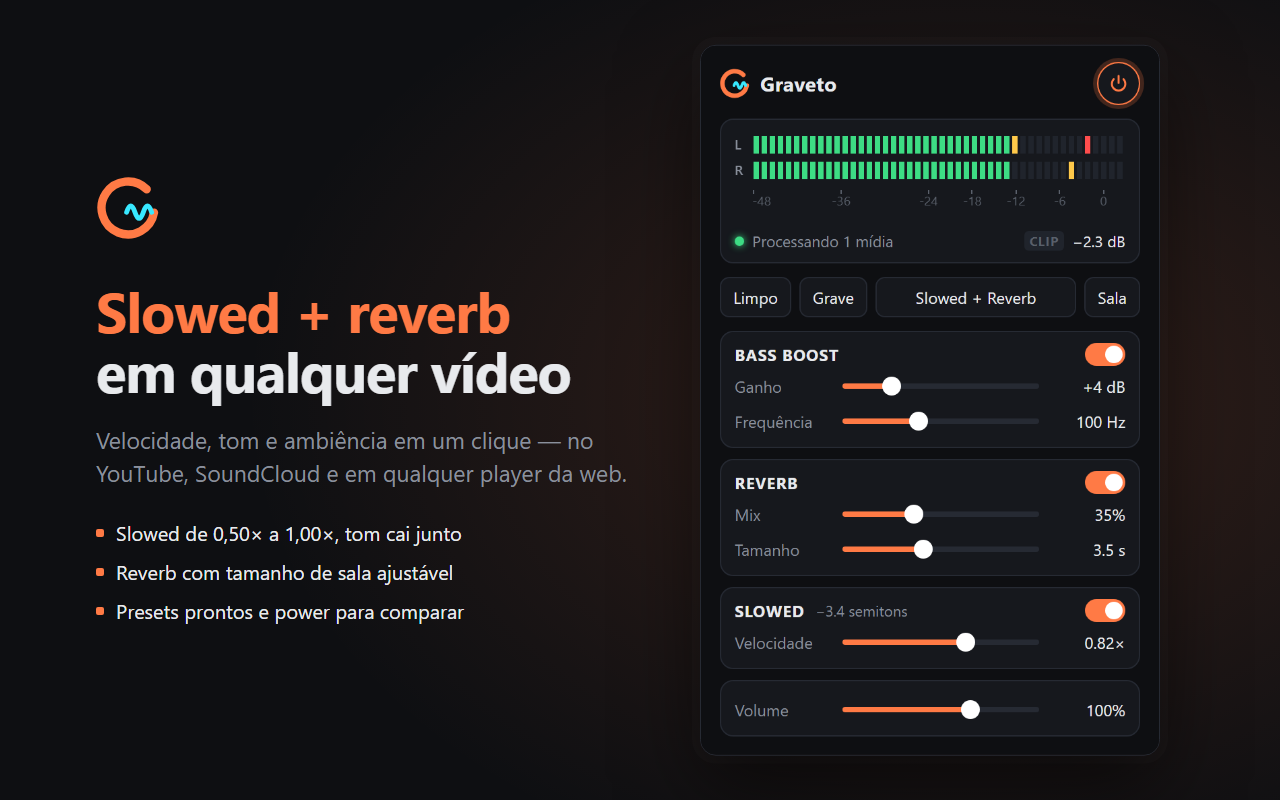
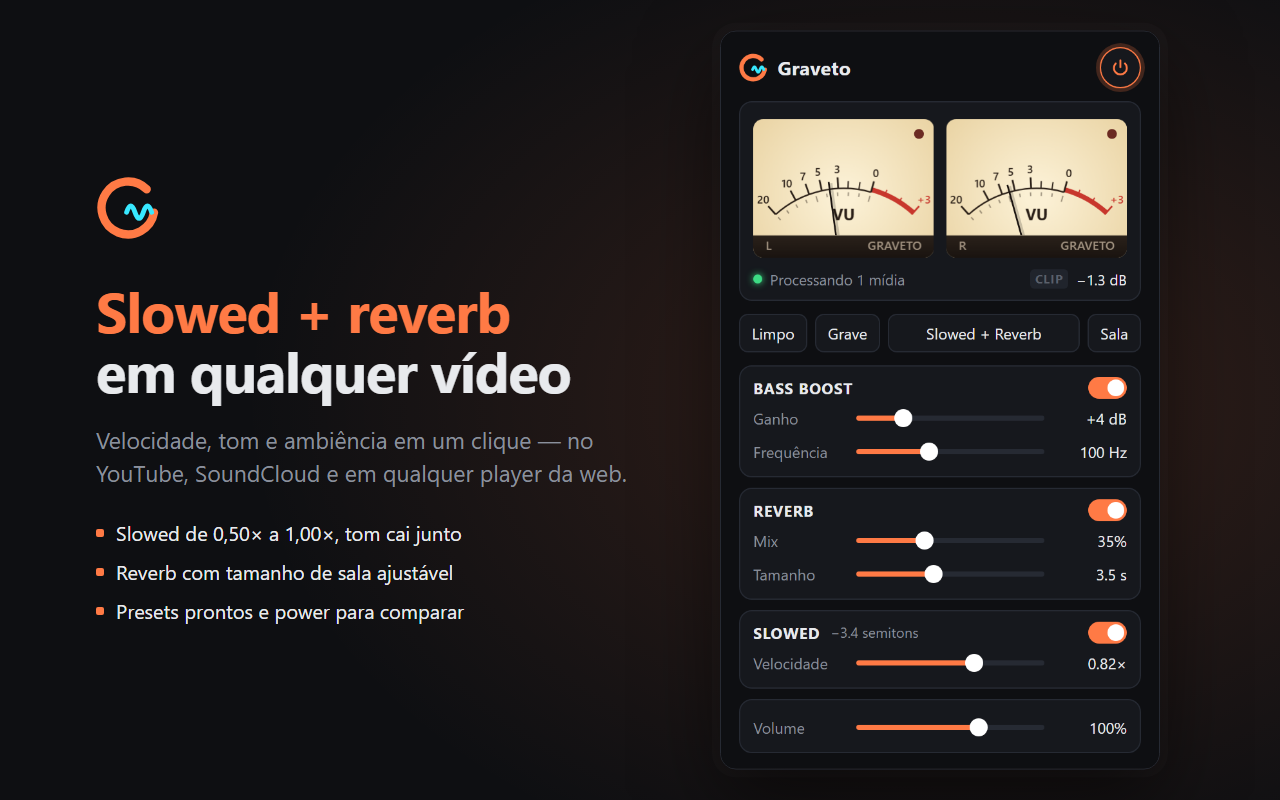
Popup com VU meter analógico
Troca as barras de LED por dois mostradores analógicos (agulha com
balística de VU, faixa vermelha e LED de pico), trazidos da versão em
workspace\Graveto. O restante do popup e o motor de áudio não mudam.
Capturas do README e artes da loja refeitas.

diff --git a/popup/popup.js b/popup/popup.js
@@ -170,34 +170,159 @@ function showStatus([text, kind]) {
   $('#dot').className = kind;
 }
 
-// ---------- VU meter ----------
+// ---------- VU meter (analógico) ----------
 
 const MIN_DB = -48;
-const MAX_DB = 3;
-const SCALE = [-48, -36, -24, -18, -12, -6, 0];
 const toDb = (v) => (v > 1e-6 ? 20 * Math.log10(v) : -Infinity);
+
+// Dois mostradores clássicos: agulha com balística de VU (~300 ms), calibrada para
+// −12 dBFS RMS = 0 VU, faixa vermelha acima de 0 VU e LED de pico.
+const VU_REF_DBFS = -12;
+const VU_MIN = -20;
+const VU_MAX = 3;
+const NEEDLE_TAU = 0.065;
+const PEAK_LED = 0.891; // −1 dBFS
+const PEAK_HOLD_MS = 450;
+
+// Geometria em unidades de desenho; o canvas é escalado para a largura real do painel.
+const W = 302;
+const H = 118;
+const FACE_W = 146;
+const FACE_H = 112;
+const FACE_Y = 3;
+const FACES = [0, W - FACE_W];
+const SWEEP = (42 * Math.PI) / 180;
+const PIVOT_DROP = 26; // pivô abaixo da face, como nos medidores analógicos
+const RADIUS = 82;
 
 const canvas = $('#vu');
 const g = canvas.getContext('2d');
-const css = getComputedStyle(document.documentElement);
-const C = Object.fromEntries(
-  ['ok', 'warn', 'hot', 'seg-off', 'muted', 'dim'].map((k) => [k, css.getPropertyValue(`--${k}`).trim()]),
-);
+let res = 1; // pixels de canvas por unidade de desenho
+let faceLayers = [];
 
 const vu = {
-  rms: [0, 0],                    // amplitude com balística (ataque rápido, queda lenta)
-  hold: [-Infinity, -Infinity],   // pico segurado, dB
+  needle: [-0.04, -0.04],
+  peakUntil: [0, 0],
+  hold: [-Infinity, -Infinity], // pico segurado em dB, para o readout
   holdAt: [0, 0],
   clipAt: -1e9,
 };
 
+function vuPosition(v) {
+  const lo = Math.pow(10, VU_MIN / 20);
+  const hi = Math.pow(10, VU_MAX / 20);
+  return (Math.pow(10, v / 20) - lo) / (hi - lo);
+}
+
+const angleFor = (pos) => -SWEEP + pos * 2 * SWEEP;
+const polar = (cx, cy, angle, r) => [cx + Math.sin(angle) * r, cy - Math.cos(angle) * r];
+
+// A face é desenhada uma vez numa camada separada; a cada quadro só a agulha muda.
+function drawFace(label) {
+  const face = document.createElement('canvas');
+  face.width = Math.round(FACE_W * res);
+  face.height = Math.round(FACE_H * res);
+  const c = face.getContext('2d');
+  c.scale(res, res);
+
+  const cx = FACE_W / 2;
+  const cy = FACE_H + PIVOT_DROP;
+
+  c.beginPath();
+  c.roundRect(0, 0, FACE_W, FACE_H, 8);
+  const bg = c.createRadialGradient(cx, FACE_H * 0.55, 10, cx, FACE_H * 0.55, FACE_W * 0.75);
+  bg.addColorStop(0, '#fbf0d4');
+  bg.addColorStop(1, '#e7cf9c');
+  c.fillStyle = bg;
+  c.fill();
+  c.save();
+  c.clip();
+
+  // Arco da escala: preto até 0 VU, faixa vermelha depois.
+  const aZero = angleFor(vuPosition(0));
+  c.lineWidth = 1.2;
+  c.strokeStyle = '#2a1f17';
+  c.beginPath();
+  c.arc(cx, cy, RADIUS, angleFor(0) - Math.PI / 2, aZero - Math.PI / 2);
+  c.stroke();
+  c.lineWidth = 4;
+  c.strokeStyle = '#c8372d';
+  c.beginPath();
+  c.arc(cx, cy, RADIUS + 2, aZero - Math.PI / 2, angleFor(1) - Math.PI / 2);
+  c.stroke();
+
+  const labeled = new Set([-20, -10, -7, -5, -3, 0, 3]);
+  c.font = '600 9px "Segoe UI", system-ui, sans-serif';
+  c.textAlign = 'center';
+  c.textBaseline = 'middle';
+  for (const v of [-20, -10, -7, -5, -3, -2, -1, 0, 1, 2, 3]) {
+    const a = angleFor(vuPosition(v));
+    const major = labeled.has(v);
+    const [x1, y1] = polar(cx, cy, a, RADIUS);
+    const [x2, y2] = polar(cx, cy, a, RADIUS + (major ? 9 : 6));
+    c.strokeStyle = v > 0 ? '#c8372d' : '#2a1f17';
+    c.lineWidth = major ? 1.4 : 1;
+    c.beginPath();
+    c.moveTo(x1, y1);
+    c.lineTo(x2, y2);
+    c.stroke();
+    if (major) {
+      const [tx, ty] = polar(cx, cy, a, RADIUS + 15);
+      c.fillStyle = c.strokeStyle;
+      c.fillText(v > 0 ? `+${v}` : `${Math.abs(v)}`, tx, ty);
+    }
+  }
+
+  // Marcações de porcentagem por dentro do arco, como num VU clássico.
+  c.strokeStyle = 'rgba(42, 31, 23, 0.45)';
+  c.lineWidth = 1;
+  for (let i = 1; i <= 10; i++) {
+    const a = angleFor(vuPosition(20 * Math.log10(i / 10)));
+    const [x1, y1] = polar(cx, cy, a, RADIUS - 3);
+    const [x2, y2] = polar(cx, cy, a, RADIUS - (i % 5 === 0 ? 8 : 6));
+    c.beginPath();
+    c.moveTo(x1, y1);
+    c.lineTo(x2, y2);
+    c.stroke();
+  }
+
+  c.fillStyle = '#2a1f17';
+  c.font = '700 13px "Segoe UI", system-ui, sans-serif';
+  c.fillText('VU', cx, FACE_H - 34);
+
+  // Base escura que esconde o pivô.
+  const base = c.createLinearGradient(0, FACE_H - 18, 0, FACE_H);
+  base.addColorStop(0, '#2b221b');
+  base.addColorStop(1, '#1a1410');
+  c.fillStyle = base;
+  c.fillRect(0, FACE_H - 18, FACE_W, 18);
+  c.fillStyle = '#a39482';
+  c.font = '600 10px "Segoe UI", system-ui, sans-serif';
+  c.textAlign = 'left';
+  c.fillText(label, 10, FACE_H - 9);
+  c.textAlign = 'right';
+  c.fillText('GRAVETO', FACE_W - 10, FACE_H - 9);
+  c.restore();
+
+  return face;
+}
+
+function sizeCanvas() {
+  res = (canvas.clientWidth / W) * (devicePixelRatio || 1);
+  canvas.width = Math.round(W * res);
+  canvas.height = Math.round(H * res);
+  faceLayers = [drawFace('L'), drawFace('R')];
+}
+
 function stepMeter(dt, now, levels) {
+  const k = 1 - Math.exp(-dt / NEEDLE_TAU);
   for (let c = 0; c < 2; c++) {
-    const target = levels ? levels[c] : 0;
-    const tau = target > vu.rms[c] ? 0.05 : 0.3;
-    vu.rms[c] += (target - vu.rms[c]) * (1 - Math.exp(-dt / tau));
+    const rms = s.power && levels ? levels[c] : 0;
+    const target = Math.min(1.06, Math.max(-0.04, vuPosition(toDb(rms) - VU_REF_DBFS)));
+    vu.needle[c] += (target - vu.needle[c]) * k;
 
     const peak = levels ? levels[2 + c] : 0;
+    if (peak >= PEAK_LED) vu.peakUntil[c] = now + PEAK_HOLD_MS;
     const pdb = toDb(peak);
     if (pdb >= vu.hold[c]) {
       vu.hold[c] = pdb;
@@ -209,61 +334,56 @@ function stepMeter(dt, now, levels) {
   }
 }
 
-function sizeCanvas() {
-  const dpr = devicePixelRatio || 1;
-  canvas.width = Math.round(canvas.clientWidth * dpr);
-  canvas.height = Math.round(canvas.clientHeight * dpr);
-  g.setTransform(dpr, 0, 0, dpr, 0, 0);
-}
-
-function segColor(db) {
-  if (db >= -3) return C.hot;
-  if (db >= -12) return C.warn;
-  return C.ok;
-}
-
-function drawMeter() {
-  const W = canvas.clientWidth;
-  const H = canvas.clientHeight;
+function drawMeter(now) {
+  g.setTransform(res, 0, 0, res, 0, 0);
   g.clearRect(0, 0, W, H);
 
-  const x0 = 14;
-  const barW = W - x0;
-  const barH = 13;
-  const segW = 4;
-  const gap = 2;
-  const count = Math.floor((barW + gap) / (segW + gap));
-  const xOf = (db) => x0 + ((Math.max(MIN_DB, Math.min(MAX_DB, db)) - MIN_DB) / (MAX_DB - MIN_DB)) * barW;
-  const dbOfSeg = (i) => MIN_DB + ((i + 0.5) / count) * (MAX_DB - MIN_DB);
-
-  g.font = '600 10px system-ui, sans-serif';
-  g.textBaseline = 'middle';
-
   for (let c = 0; c < 2; c++) {
-    const y = 2 + c * (barH + 6);
-    g.fillStyle = C.muted;
-    g.textAlign = 'left';
-    g.fillText(c ? 'R' : 'L', 0, y + barH / 2 + 0.5);
+    const x = FACES[c];
+    const cx = x + FACE_W / 2;
+    const cy = FACE_Y + FACE_H + PIVOT_DROP;
+    g.drawImage(faceLayers[c], x, FACE_Y, FACE_W, FACE_H);
 
-    const level = toDb(vu.rms[c]);
-    const holdSeg = Math.floor(((vu.hold[c] - MIN_DB) / (MAX_DB - MIN_DB)) * count);
-    for (let i = 0; i < count; i++) {
-      const db = dbOfSeg(i);
-      const lit = db <= level;
-      g.fillStyle = lit || i === holdSeg ? segColor(db) : C['seg-off'];
-      g.fillRect(x0 + i * (segW + gap), y, segW, barH);
+    // Agulha (com sombra leve), recortada acima da base.
+    g.save();
+    g.beginPath();
+    g.roundRect(x, FACE_Y, FACE_W, FACE_H - 18, [8, 8, 0, 0]);
+    g.clip();
+    const [tx, ty] = polar(cx, cy, angleFor(vu.needle[c]), RADIUS + 6);
+    g.strokeStyle = 'rgba(0, 0, 0, 0.18)';
+    g.lineWidth = 2;
+    g.beginPath();
+    g.moveTo(cx + 2, cy);
+    g.lineTo(tx + 2, ty + 1);
+    g.stroke();
+    g.strokeStyle = '#1b1410';
+    g.lineWidth = 1.4;
+    g.beginPath();
+    g.moveTo(cx, cy);
+    g.lineTo(tx, ty);
+    g.stroke();
+    g.restore();
+
+    // LED de pico.
+    const lit = now < vu.peakUntil[c];
+    g.beginPath();
+    g.arc(x + FACE_W - 12, FACE_Y + 12, 4, 0, Math.PI * 2);
+    g.fillStyle = lit ? '#ff3b2f' : '#6b2a22';
+    g.fill();
+    if (lit) {
+      g.save();
+      g.shadowColor = '#ff3b2f';
+      g.shadowBlur = 10;
+      g.fill();
+      g.restore();
     }
-  }
 
-  // escala em dB
-  const sy = 2 + 2 * (barH + 6) + 6;
-  g.font = '9.5px system-ui, sans-serif';
-  g.fillStyle = C.dim;
-  g.textAlign = 'center';
-  for (const db of SCALE) {
-    const x = xOf(db);
-    g.fillRect(Math.round(x) - 0.5, sy - 4, 1, 3);
-    g.fillText(db === 0 ? '0' : String(db), Math.min(W - 6, Math.max(x0 + 6, x)), sy + 5);
+    if (!s.power) {
+      g.beginPath();
+      g.roundRect(x, FACE_Y, FACE_W, FACE_H, 8);
+      g.fillStyle = 'rgba(13, 10, 8, 0.55)';
+      g.fill();
+    }
   }
 }
 
@@ -281,7 +401,7 @@ function frame(now) {
   last = now;
   const a = aggregate(now);
   stepMeter(dt, now, a.levels);
-  drawMeter();
+  drawMeter(now);
   showReadout(now);
   showStatus(statusOf(a, now));
   requestAnimationFrame(frame);

diff --git a/store/assets.html b/store/assets.html
@@ -36,7 +36,7 @@
   .shot ul { list-style: none; padding: 0; display: grid; gap: 12px; font-size: 20px; }
   .shot li { display: flex; align-items: center; gap: 12px; }
   .shot li::before { content: ""; width: 8px; height: 8px; border-radius: 2px; background: var(--accent); }
-  .shot .popup { position: absolute; right: 120px; top: 50%; width: 460px; transform: translateY(-50%); border-radius: 16px; border: 1px solid var(--line); box-shadow: 0 30px 80px rgba(0, 0, 0, 0.55), 0 0 0 8px rgba(255, 255, 255, 0.02); }
+  .shot .popup { position: absolute; right: 120px; top: 50%; width: 440px; transform: translateY(-50%); border-radius: 16px; border: 1px solid var(--line); box-shadow: 0 30px 80px rgba(0, 0, 0, 0.55), 0 0 0 8px rgba(255, 255, 255, 0.02); }
 
   /* promo tile 440×280 e marquee 1400×560: só o símbolo, sem texto */
   .tile { width: 440px; height: 280px; }
@@ -84,7 +84,7 @@
     <p>Bass boost de até +18 dB com limiter automático segurando os picos, e VU meter estéreo para ver o que você ouve.</p>
     <ul>
       <li>Frequência do grave de 40 a 200 Hz</li>
-      <li>VU com pico segurado e alerta de clip</li>
+      <li>VU analógico estéreo com LED de pico</li>
       <li>Volume até 150% sem estourar</li>
     </ul>
   </div>

diff --git a/popup/popup.css b/popup/popup.css
@@ -81,7 +81,7 @@ button { font: inherit; color: inherit; }
   margin-bottom: 10px;
 }
 
-#vu { display: block; width: 100%; height: 66px; }
+#vu { display: block; width: 100%; aspect-ratio: 302 / 118; }
 
 .meter-foot {
   display: flex;

diff --git a/store/LISTING.md b/store/LISTING.md
@@ -28,8 +28,8 @@ Diminua a velocidade e o tom juntos (de 0,50× a 1,00×) e adicione reverb com o
 🔊 BASS BOOST SEM DISTORÇÃO
 Até +18 dB de grave, com frequência ajustável de 40 a 200 Hz. Um limiter automático segura os picos para o som não estourar.
 
-📊 VU METER ESTÉREO
-Veja o nível dos canais L e R em tempo real, com pico segurado e alerta de clip.
+📊 VU METER ANALÓGICO
+Dois mostradores clássicos, L e R, com agulha de balística real, LED de pico e alerta de clip.
 
 ⚡ PRESETS PRONTOS
 Limpo, Grave, Slowed + Reverb e Sala. Use o botão de power para comparar com o áudio original.

diff --git a/README.md b/README.md
@@ -4,7 +4,7 @@
 
 Extensão do Chrome (Manifest V3) que processa o áudio de qualquer `<audio>`/`<video>` da página:
 
-- **VU meter** estéreo — RMS com balística, pico segurado e indicador de CLIP
+- **VU meter** analógico estéreo — dois mostradores com agulha de balística real, LED de pico e indicador de CLIP
 - **Bass Boost** — lowshelf ajustável (0–18 dB, 40–200 Hz) com limiter para não distorcer
 - **Reverb** — convolução com impulso sintético (mix e tamanho da sala 0,5–8 s)
 - **Slowed** — reduz velocidade e tom juntos (0,50–1,00×), como nos edits "slowed + reverb"
